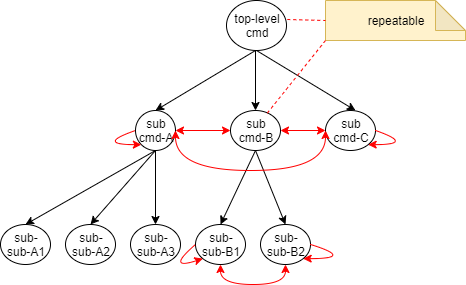
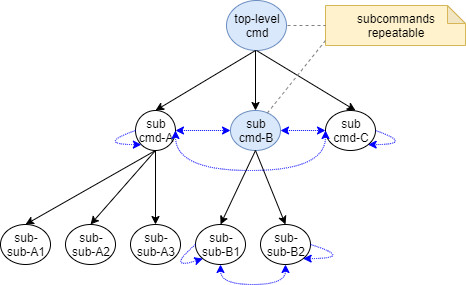
[#454] Added documentation for repeatable subcommands; updated release notes

diff --git a/RELEASE-NOTES.md b/RELEASE-NOTES.md
@@ -3,21 +3,100 @@
 # <a name="4.2.0"></a> Picocli 4.2.0 (UNRELEASED)
 The picocli community is pleased to announce picocli 4.2.0.
 
-This release contains bugfixes and enhancements. 
+This release adds support for Repeatable Subcommands: it is now possible to specify that a command's subcommands can be specified multiple times by marking it with `@Command(subcommandsRepeatable = true)`. 
 
- 
+From this release, subcommands are not instantiated until they are matched on the command line. This should improve the startup time for applications with subcommands that do a lot of initialization when they are instantiated.
+
+Autocompletion improvements: from this release the generated bash completions scripts support completing positional parameters, and are implemented without the use of associative arrays (so they should work on MacOS or other systems that use older versions of bash).
+Additionally there are now automated tests using Expect to verify that the generated completion scripts work as expected.
+
+Also, from this release it is possible to inject the `CommandSpec` into a `IVersionProvider`, making it easier to write version provider implementations that are reusable across multiple commands or even applications.
+
+Added `@Command(showAtFileInUsageHelp=true)` attribute to show `@filename` in usage help.
+
+Support `@ParentCommand`-annotated fields in mixin classes.
+
 This is the sixty-seventh public release.
 Picocli follows [semantic versioning](http://semver.org/).
 
 ## <a name="4.2.0-toc"></a> Table of Contents
 * [New and noteworthy](#4.2.0-new)
+  * [Repeatable Subcommands](#4.2.0-repeatable-subcommands)
+  * [Inject `CommandSpec` into a `IVersionProvider`](#4.2.0-versionprovider-with-spec)
+  * [Lazily instantiate subcommands](#4.2.0-lazy-instantiation)
+  * [Mixins with `@ParentCommand`-annotated fields](#4.2.0-mixins)
+  * [Showing `@filename` in usage help](#4.2.0-atfiles-usage)
 * [Fixed issues](#4.2.0-fixes)
 * [Deprecations](#4.2.0-deprecated)
 * [Potential breaking changes](#4.2.0-breaking-changes)
 
 ## <a name="4.2.0-new"></a> New and Noteworthy
 
-### Injecting `CommandSpec` Into a `IVersionProvider`
+### <a name="4.2.0-repeatable-subcommands"></a> Repeatable Subcommands
+From picocli 4.2, it is possible to specify that a command's subcommands can be specified multiple times by marking it with `@Command(subcommandsRepeatable = true)`.
+
+#### Example
+Below is an example where the top-level command `myapp` is marked as `subcommandsRepeatable = true`.
+This command has three subcommands, `add`, `list` and `send-report`:
+
+```java
+@Command(name = "myapp", subcommandsRepeatable = true)
+class MyApp implements Runnable {
+
+    @Command
+    void add(@Option(names = "-x") String x, @Option(names = "-w") double w) { ... }
+
+    @Command
+    void list(@Option(names = "--where") String where) { ... }
+
+    @Command(name = "send-report")
+    void sendReport(@Option(names = "--to", split = ",") String[] recipients) { ... }
+
+    // ...
+}
+```
+
+The above example command allows users to specify one or more of its subcommands multiple time. For example, this would be a valid invocation:
+
+```bash
+myapp add -x=item1 -w=0.2 \
+      add -x=item2 -w=0.5 \
+      add -x=item3 -w=0.7 \
+      list --where "w>0.2" \
+      send-report --to=recipient@myorg.com
+```
+
+In the above command line invocation, the `myapp` top-level command is followed by its subcommand `add`.
+Next, this is followed by another two occurences of `add`, followed by `list` and `send-report`.
+These are all "sibling" commands, that share the same parent command `myapp`.
+This invocation is valid because `myapp` is marked with `subcommandsRepeatable = true`.
+
+#### Repeatable Subcommands Specification
+
+Normally, `subcommandsRepeatable` is `false`, so for each command, only one of its subcommands can be specified, potentially followed by only one sub-subcommand of that subcommand, etc.
+In mathematical terms, a valid sequence of commands and subcommands can be represented by a _directed rooted tree_ that starts at the top-level command, illustrated by the diagram below.
+
+![subcommands not repeatable](https://picocli.info/images/subcommands-non-repeatable.png)
+
+When `subcommandsRepeatable` is set to `true` on a command, the subcommands of this command may appear multiple times.
+Also, a subcommand can be followed by a "sibling" command (another command with the same parent command).
+
+In mathematical terms, when a parent command has this property, the additional valid sequences of its subcommands form a fully connected subgraph (_a complete digraph_).
+
+The blue dotted arrows in the diagram below illustrate the additional sequences that are allowed when a command has repeatable subcommands.
+
+![subcommands-repeatable](https://picocli.info/images/subcommands-repeatable.png)
+
+
+Note that it is not valid to specify a subcommand followed by its parent command:
+
+```bash
+# invalid: cannot move _up_ the hierarchy
+myapp add -x=item1 -w=0.2 myapp
+```
+
+
+### <a name="4.2.0-versionprovider-with-spec"></a> Injecting `CommandSpec` Into a `IVersionProvider`
 
 From this release, `IVersionProvider` implementations can have `@Spec`-annotated fields. If such a field
 exists, picocli will inject the `CommandSpec` of the command that uses this version provider.
@@ -36,23 +115,32 @@ class MyVersionProvider implements IVersionProvider {
 }
 ```
 
-### Lazily instantiate subcommands
+### <a name="4.2.0-lazy-instantiation"></a> Lazily instantiate subcommands
 
 From this release,  subcommands are not instantiated until they are matched on the command line,
 unless the user object has a `@Spec` or `@ParentObject`-annotated field; these are instantiated during initialization.
 
+### <a name="4.2.0-mixins"></a> Mixins with `@ParentCommand`-annotated fields
+
+TODO
+
+### <a name="4.2.0-atfiles-usage"></a> Showing `@filename` in usage help
+
+Added `@Command(showAtFileInUsageHelp=true)` attribute to show `@filename` in usage help.
+
 
 ## <a name="4.2.0-fixes"></a> Fixed issues
-* [#906] Added automated tests for picocli-generated bash/zsh completion scripts.
+* [#454] API: Added support for repeatable subcommands. Thanks to [Idan Arye](https://github.com/idanarye), [Miroslav Kravec](https://github.com/kravemir), [Philipp Hanslovsky](https://github.com/hanslovsky) and [Jay](https://github.com/lakemove) for raising this and the subsequent discussion.
+* [#629] API: Support injecting `@Spec CommandSpec spec` into `IVersionProvider` implementations. Thanks to [Garret Wilson](https://github.com/garretwilson) for raising this.
+* [#795] API: Added `@Command(showAtFileInUsageHelp=true)` attribute to show `@filename` in usage help.
+* [#925] API: Support `@ParentCommand`-annotated fields in mixin classes.
+* [#906] Auto-completion: Added automated tests for picocli-generated bash/zsh completion scripts.
 * [#468][#505][#852] Auto-completion: added support for positional parameter completion. Thanks to [Serhii Avsheniuk](https://github.com/avshenuk) for the pull request.
 * [#644][#671] Auto-completion: fix [shellcheck](https://github.com/koalaman/shellcheck) warnings in generated autocompletion scripts. Thanks to [Dylan Cali](https://github.com/calid) for raising this, and thanks to [AlcaYezz](https://github.com/AlcaYezz) for the pull request.
 * [#396] Auto-completion: completion scripts no longer use associative arrays, and should now work on OSX.
-* [#629] Support injecting `@Spec CommandSpec spec` into `IVersionProvider` implementations. Thanks to [Garret Wilson](https://github.com/garretwilson) for raising this.
-* [#795] Enhancement: Added `@Command(showAtFileInUsageHelp=true)` attribute to show `@filename` in usage help.
+* [#690] Enhancement: Postpone instantiating subcommands until they are matched on the command line. Thanks to [Daniel Breitlauch](https://github.com/danielBreitlauch) for raising this.
 * [#926] Enhancement: Clarify debug trace output when adding aliases.
 * [#928] Enhancement: Improve debug tracing: show command user object identity hashcode and prefix "Processing argument..." with argument index.
-* [#925] Enhancement: Support `@ParentCommand`-annotated fields in mixin classes.
-* [#690] Enhancement: Postpone instantiating subcommands until they are matched on the command line. Thanks to [Daniel Breitlauch](https://github.com/danielBreitlauch) for raising this.
 * [#920] Enhancement: Reduce `DEBUG` tracing noise if no resource bundle is set.
 * [#924] Bugfix: `CommandSpec.mixinAnnotatedElements` map should be initialized when discovering `@Mixin`-annotated fields and methods via reflection.
 * [#929] DOC: Add [jbang](https://github.com/maxandersen/jbang) under [packaging](https://picocli.info/#_packaging_your_application) in the user manual.
